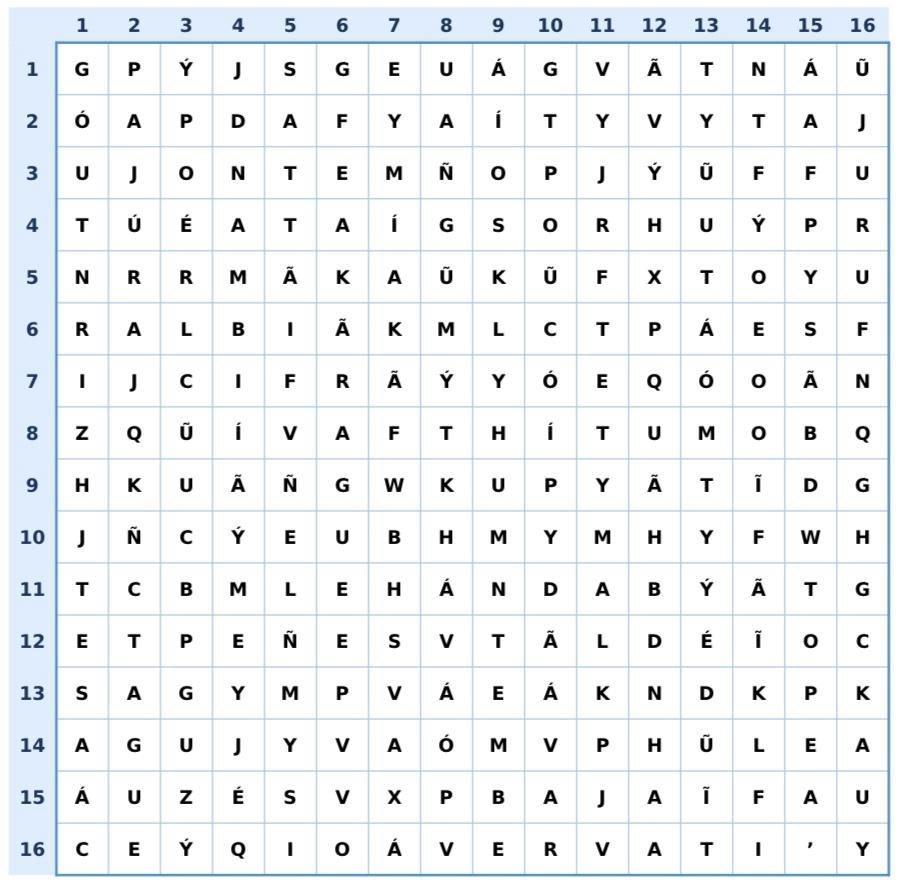
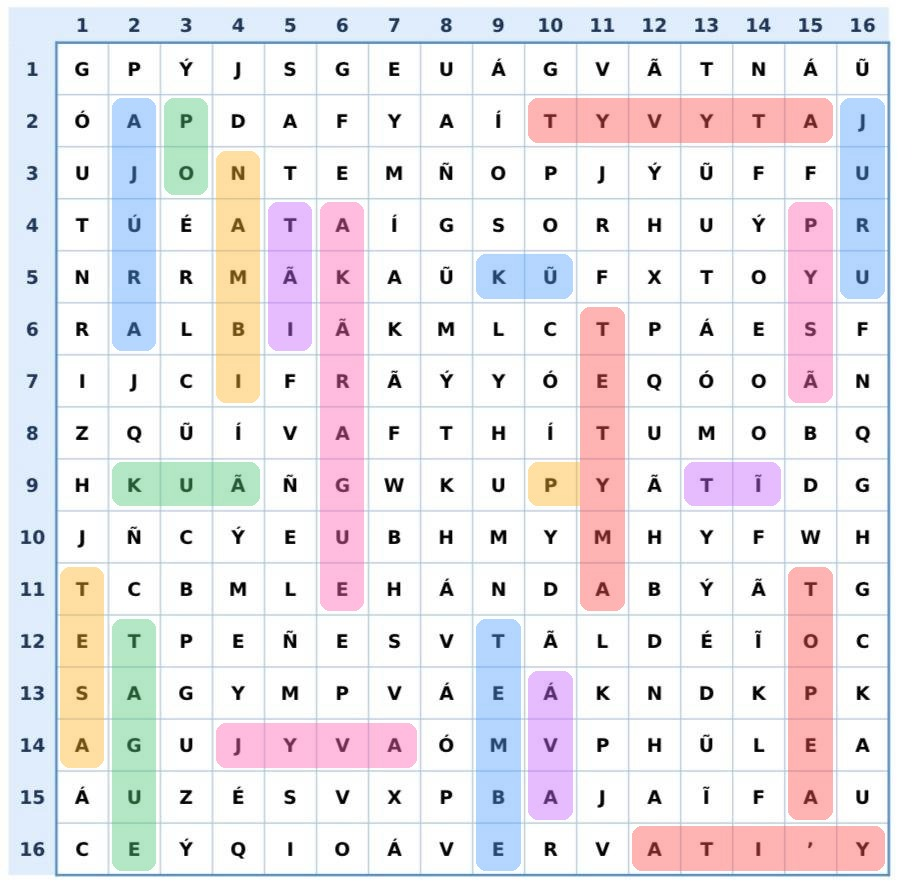
Complete class 9 worksheet images with filled answers.

diff --git a/src/data/classes.ts b/src/data/classes.ts
@@ -1737,46 +1737,31 @@ export const classes: ClassLesson[] = [
       },
       {
         type: 'figure',
-        title: 'Tembiaporã 1 — Nombrá las partes señaladas',
+        title: 'Tembiaporã 1 — Partes señaladas (resuelto)',
         image: '/clase9/tete-rehegua.jpg',
         caption:
-          'Observá la imagen y nombrá en guaraní las partes del cuerpo que están señaladas.',
+          'Lámina completada: cada casilla tiene el nombre en guaraní de la parte señalada.',
         body: [
           'Izquierda (arriba → abajo): Akã (cabeza), Tesa (ojo), Nambi (oreja), Po (mano), Kuã (dedo de la mano), Tetyma (pierna).',
-          'Derecha (arriba → abajo): Áva / akãrague (cabello), Tî (nariz), Tembe (labio), Juru (boca), Kû (lengua), Py (pie).',
-        ],
-      },
-      {
-        type: 'exercise',
-        title: 'Respuestas — Partes señaladas',
-        prompt: 'Completá cada casilla con la palabra en guaraní.',
-        items: [
-          { prompt: 'Cabeza', answer: 'Akã', hint: 'arriba a la izquierda' },
-          { prompt: 'Ojo', answer: 'Tesa' },
-          { prompt: 'Oreja', answer: 'Nambi' },
-          { prompt: 'Mano', answer: 'Po' },
-          { prompt: 'Dedo de la mano', answer: 'Kuã' },
-          { prompt: 'Pierna', answer: 'Tetyma' },
-          { prompt: 'Cabello', answer: 'Áva / akãrague', hint: 'arriba a la derecha' },
-          { prompt: 'Nariz', answer: 'Tî' },
-          { prompt: 'Labio', answer: 'Tembe' },
-          { prompt: 'Boca', answer: 'Juru' },
-          { prompt: 'Lengua', answer: 'Kû' },
-          { prompt: 'Pie', answer: 'Py' },
+          'Derecha (arriba → abajo): Áva (cabello), Tî (nariz), Tembe (labio), Tãi (diente), Kû (lengua), Py (pie).',
         ],
       },
       {
         type: 'figure',
-        title: 'Tembiaporã 2 — Sopa de letras',
+        title: 'Tembiaporã 2 — Sopa de letras (resuelta)',
         image: '/clase9/sopa-de-letras.jpg',
         caption:
-          'Encontrá las palabras de las partes del cuerpo. Solo aparecen en horizontal (→) o vertical (↓), nunca al revés ni en diagonal. Los números indican filas y columnas.',
+          'Sopa completada: las palabras están marcadas en color. Solo aparecen en horizontal (→) o vertical (↓). En la grilla, Kû aparece como KŨ y Tî como TĨ.',
+        body: [
+          'Horizontal: Tyvyta, Kû, Kuã, Py, Tî, Jyva, Ati\'y.',
+          'Vertical: Ajúra, Po, Nambi, Tãi, Akãrague, Tetyma, Tembe, Tague, Tesa, Áva, Pysã, Topea, Juru.',
+        ],
       },
       {
         type: 'solved',
-        title: 'Respuestas — Sopa de letras',
+        title: 'Clave — Ubicación en la sopa',
         intro:
-          'Ubicación de cada palabra en la grilla (fila/columna según los números del PDF). En la sopa, Kû aparece como KŨ y Tî como TĨ.',
+          'Fila/columna según los números de la grilla.',
         groups: [
           {
             title: 'Horizontal (→)',
